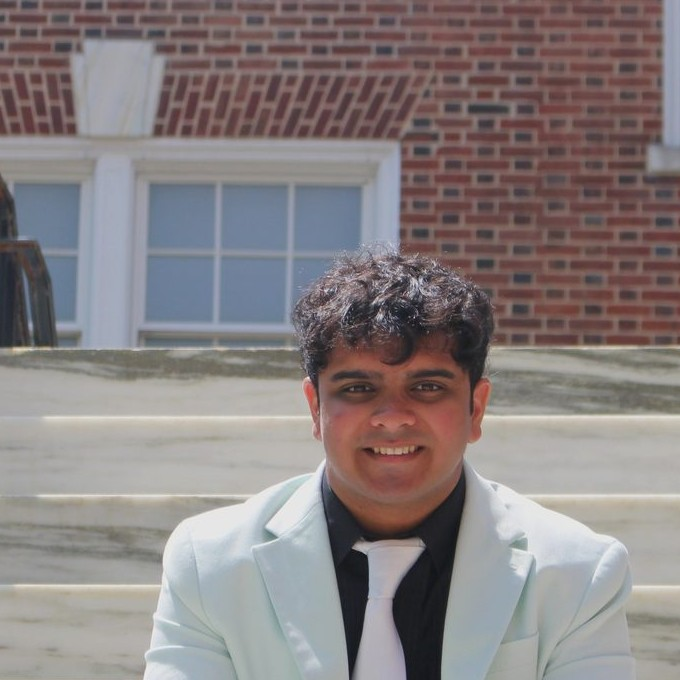
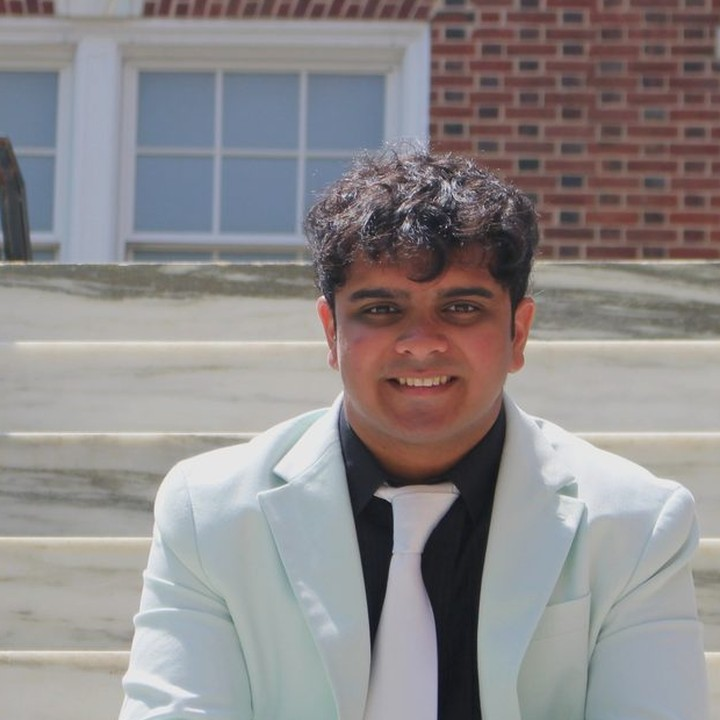
Tighten the hero headshot crop and keep the Life gallery two columns on phones.

diff --git a/styles.css b/styles.css
@@ -216,7 +216,7 @@ section {
   height: auto;
   aspect-ratio: 1;
   object-fit: cover;
-  object-position: center 38%;
+  object-position: center 28%;
   border: 1px solid rgba(244, 241, 234, 0.45);
   box-shadow: 0 18px 40px rgba(0, 0, 0, 0.28);
 }
@@ -681,10 +681,6 @@ section {
   .nav-links { flex-direction: column; gap: 0.7rem; }
   .site-nav .btn { width: fit-content; }
   .gallery-grid { grid-template-columns: 1fr 1fr; }
-}
-
-@media (max-width: 420px) {
-  .gallery-grid { grid-template-columns: 1fr; }
 }
 
 @media print {
